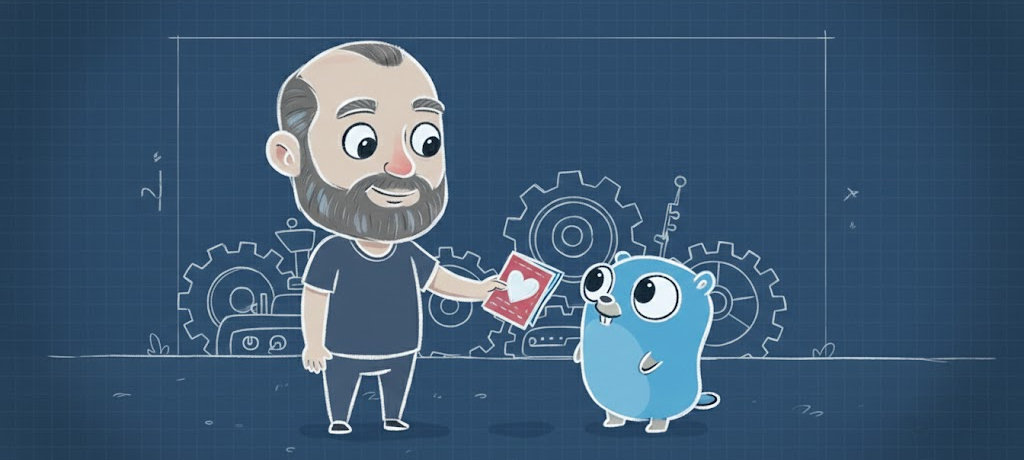
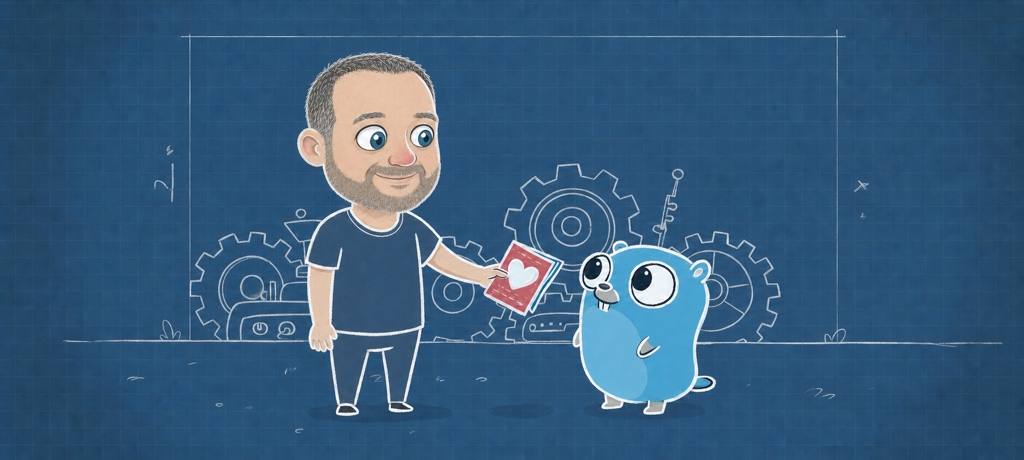
feat(blog): publish creating factories
[WHY] Publish the factory architecture article and refresh post artwork.

[WHAT] Add the factory post and diagram; update intro, Qwen, and junior covers.

[HOW] Use optimized local assets and keep the junior article in draft status.

[TEST] Run pnpm build; verify blog index, RSS, routes, and built assets.

[RISK] Low; this changes blog content and static images only.

[RAG] none

diff --git a/src/content/posts/creating-factories.md b/src/content/posts/creating-factories.md
@@ -1,0 +1,152 @@
+---
+title: "Creating Factories"
+author: "Jon Sykes"
+cover: "/images/posts/creating-factories/cover.jpg"
+thumbnail: "/images/posts/creating-factories/thumb.jpg"
+summary: "Coding agents and business agents are converging on the same architecture. Five capabilities, two worked examples, and the design decisions that come with building one."
+aiUsage: "AI was used for structural editing and reference checking against a brief I wrote. The five-capability model, the opinions, and the architecture described here are my own."
+date: "2026-07-29"
+isDraft: false
+---
+
+## TL;DR
+
+- The software factory is an old organizational idea. Hitachi opened its Software Works in 1969, and Michael Cusumano documented the Japanese factory programs in 1991.
+- The current crop of agent products, on both the coding side and the business side, keep arriving at the same shape without coordinating on it.
+- Five capabilities make a factory: work intake, knowledge retrieval, agent orchestration, isolated execution, and versioning and governance.
+- Two examples carry the article: a token refresh bug through a software factory, and a July board pack through a business factory.
+
+## Software factories have been here before
+
+Software factories are older than most of the people working in software. Hitachi opened its Software Works in 1969. The idea has resurfaced every decade or so since, usually with a new set of tools and the same stubborn question underneath: how do you make software delivery repeatable without pretending software is an assembly line?
+
+Michael Cusumano's _Japan's Software Factories_ is still the best account of what those programs were actually doing. He looked at System Development Corporation in the United States and at Hitachi, Toshiba, NEC and Fujitsu in Japan, and found organizations taking the unglamorous parts of the job seriously: they standardized process, built libraries of reusable components, measured quality properly, and ran training pipelines that could turn a new hire into a productive contributor on a known schedule. Their estimates meant something, which is more than a lot of teams can claim now. Nobody involved thought code came off a conveyor belt. The claim was narrower: that the work around the code could be made predictable.
+
+The history also carries a warning worth holding onto. Those programs got real results on the things they measured: defect rates came down and delivery got more predictable. None of that told a company whether it was building the right product. Process discipline is orthogonal to product judgment, and a factory that reliably ships the wrong thing has an expensive problem that no amount of measurement will surface.
+
+So why is this coming back now? Not because anyone had a better idea about process. The economics changed. Every previous version of the software factory needed people to maintain the component library, run the reviews, apply the standards and keep the pipeline fed. That labor was the cost center, and it's the reason most of these programs eventually collapsed back into ordinary team structure. The worker is now cheap, tireless, available in parallel, and genuinely bad at judgment. That's a different set of trade-offs, and it earns the old idea another look. It does not make it a new idea.
+
+## The idea is visible in products people can use
+
+On the software side, Codex in the ChatGPT desktop app, Claude Code, GitHub Copilot's coding agent, Google Jules, Cursor's background agents and Devin all implement a recognizable version of the same path. They accept a unit of work, prepare an execution environment with the repository in it, change the code, run something that verifies the change, and hand back a branch or a pull request. The interfaces differ a lot, the isolation models differ more, and the products disagree about how much the agent should do before a human sees anything. The path is the same path.
+
+A second group is doing the equivalent work on outputs that aren't code. Claude Cowork, Manus and Replit Agent all produce documents, reports, presentations, applications and research using machinery that looks structurally similar: work comes in, a controlled environment gets prepared, tools run, an artifact comes out. Manus has written publicly about its sandbox design, which is the clearest sign that this group ran into the same isolation problems the coding tools did.
+
+A third group is working on persistence. OpenClaw and Hermes Agent are exploring agents that stay connected to communication channels, hold memory, and stay reachable after the session that created them has ended.
+
+I'm not ranking these, and I'm not claiming any of them is a complete factory. Several are deliberately one layer of the stack and say so. The interesting part is that these teams aren't coordinating and the same boxes keep appearing anyway. In my experience that usually means the boxes are load-bearing. Fashion does not converge like that.
+
+What follows is the 5 capabilities that all of these harnesses have to solve for in one form or another, and two examples that show how they work together. The first example is a software factory that takes a Sentry alert through to a pull request. The second is a business factory that takes a calendar schedule through to an approved board pack.
+
+## The five capabilities
+
+![Two horizontal paths through the same five capabilities. The software factory runs from a Sentry alert to a reviewed pull request. The business factory runs from a calendar schedule to an approved board pack.](/images/posts/creating-factories/factory-paths.webp)
+
+**1. Work Intake.** Work arrives, gets an identity and a priority, and stays owned until it's finished, canceled or deliberately deferred. A Linear issue and a scheduled board pack are the same construct wearing different clothes.
+
+The failure this prevents is work that exists only inside a conversation. No queue means no way to answer what's in flight, what's stuck, what got dropped, or how long anything takes.
+
+For engineers: the queue doesn't have to be a table you own. It can be projected from Linear, the CRM, Slack, email, schedules and workflows, and for most organizations that projection is the right call because the work already lives there and nobody wants a second backlog. What you do own is identity and idempotency. The same Sentry alert firing forty times should enrich one work item, not spawn forty runs.
+
+**2. Knowledge Retrieval.** The factory can find the code, documents, data, policies, history and definitions the job needs.
+
+Skip this and you get confident output built on a stale source, an unauthorized source, or an undefined term. Both examples below turn on it: a fix needs the history of the last incident that looked like this, and a board pack needs to know what "active customer" means this month.
+
+For engineers: retrieval has to carry provenance all the way down to a location in a source, not just a document name, or nobody can audit the claim. And definitions belong in the knowledge layer as first-class content with their own history. A metric definition sitting in a paragraph of a Notion page isn't something a factory can reason about, and you can't diff it when it changes.
+
+**3. Agent Orchestration.** Something schedules the work, delegates it, tracks state, handles retries, enforces policy and records what happened.
+
+Without it, work dies quietly. An agent that crashes in step four of seven, with no record of steps one through three, has cost you more than doing nothing.
+
+For engineers: the distinction that earns its keep is run, step and attempt. A run is one observable execution. A step is one semantic operation inside it. Retrying a step creates another attempt of that step rather than another node in the graph, which keeps the execution history readable when something has been retried five times. Alongside that, one ordered event journal per run so state changes, output and diagnostics share a single timeline. And "waiting" needs to be a real state with a structured reason attached, distinct from "failed", because a run blocked on human approval isn't an error and shouldn't page anyone.
+
+**4. Isolated Execution.** Agents need a controlled place to run code, tools, browsers and data operations without inheriting every credential and permission in the host environment.
+
+The obvious risk is an agent holding your whole keychain. The quieter one is two jobs sharing a filesystem and contaminating each other's results.
+
+For engineers: broker credentials rather than injecting them. The execution environment should hold a handle it can exchange for an operation, not the token itself, so that a prompt injection in a scraped page yields a useless string. Scope the grant to the run, set an egress policy, and remember the sandbox is a tenancy boundary before it is a convenience. This is the capability with the widest gap between products right now, and it's the one I have the most to say about.
+
+**5. Versioning and Governance.** The result has a stable identity, a history, evidence, and a clear point where an accountable person accepts, rejects or revises it.
+
+What goes wrong without it is an artifact nobody signed. The pull request already solves this for code. The board pack, the policy, the forecast and the operating report need the same properties, and mostly don't have them today.
+
+For engineers: approval should be a state transition on the artifact, recorded with an actor and a timestamp, rather than a thumbs-up in a Slack thread that nobody can find in November. Diff matters as much as version. "What changed since the last one" is the question every reviewer actually asks, and it's the only thing that makes reviewing a regenerated 40-page deck tractable.
+
+## Follow the authentication bug
+
+A release goes out. Within an hour, users start getting logged out when their access token refreshes. Sentry lights up with a spike in 401s from the refresh endpoint, and support tickets start arriving that all say roughly the same thing in different words.
+
+Those two signals converge on a single Linear issue. That issue is the thing that matters, and it's worth being precise about why: the issue has an identity, a state, an owner and a priority, and it survives everything that happens next. If the work instead lives in a chat session, then the session is the work, and when the session ends or the context window fills, the work is gone with no record that it existed.
+
+The factory then goes and gets context. Not just the repository, but the recent changes to the authentication path, the runbook for token rotation, the two incidents from last year that looked like this, and the conversation on the issue itself. This is the capability people most often skip, because it feels like it should come free with a good model. It doesn't. Context and model intelligence are different problems. A very capable model with no access to your refresh implementation and no memory of the last time this broke will write you a confident, plausible fix for a different bug.
+
+Work gets scheduled and delegated: investigate, reproduce, implement, review. In a small setup one agent does all four in sequence. In a larger one those are separate steps with their own state, and some of them run in parallel. Either way something has to own the sequencing, notice when the reproduction step fails for the third time, and know the difference between "this failed" and "this is waiting on a human." Work that takes forty minutes and touches four systems fails in ways that work taking forty seconds does not.
+
+The actual execution happens somewhere contained: a workspace with the repository, the build toolchain, the test runner, and only the credentials that this job needs. The obvious reason is that you don't want an agent running arbitrary generated code against your laptop's keychain. The less obvious reason is tenancy. If your factory runs work for more than one team, the boundary between jobs is a boundary you're now responsible for.
+
+Inside that workspace, the agent reproduces the logout, writes a failing test that captures it, fixes the clock-skew check that was rejecting freshly issued tokens, and runs the repository's checks until they pass.
+
+What comes out is a branch and a pull request. This part we've all internalized so thoroughly that it's easy to miss how much it's doing. The pull request has a stable identity, a diff against a known base, a full history of revisions, the CI evidence attached, and a named human who either approves it or does not. Twenty years of engineering practice built a review surface with versioning, evidence and accountability baked in, and it's the reason the software path was the first one to work with agents. The handoff point already existed.
+
+## Follow the board pack
+
+Now the same architecture, pointed at work that has no pull request waiting at the end of it.
+
+It's the last week of July and the board meets in eight days. The pack needs to cover revenue against plan, pipeline coverage and forecast risk, churn and expansion, product adoption, the major customer and support situations, hiring against operating capacity, and the decisions or risks that need discussion in the room.
+
+A calendar schedule opens the work, or the CEO asks for it directly, and it gets a due date and an owner. Same construct as the Linear issue. The pack has an identity before anyone starts on it, so the sections still missing on Thursday register as gaps instead of silence.
+
+Then the factory gathers context, and this is where the business path is harder than the software path. Pipeline and account activity come from the CRM; revenue from Stripe, the ERP or the finance warehouse, depending on how the company grew up; product usage from an analytics tool, support patterns from the ticketing system, and delivery and incident activity from the engineering tracker. I'm naming categories here, not promising integrations, and every company's list is different. On top of that sits the material that lives in no system of record: the operating plan, the metric definitions, the last three board packs, and the leadership notes explaining why Q2 looked the way it did. A repository is one thing with one history. This is nine things that disagree.
+
+Work gets delegated by subject, with the dependencies tracked, because the churn section and the revenue section have to land on the same number. Something has to hold the order, notice that the pipeline analysis is blocked on a warehouse job that hasn't finished, and reconcile two answers when they conflict.
+
+Execution happens in sandboxes: SQL against the warehouse, spreadsheets, chart generation, and browser-driven work for the tools that have no API. Raw credentials stay outside the execution environment wherever possible. The run also needs an explicit answer to whose data it can see, because the compensation detail behind the hiring section is visible to the CEO and not to the analyst who normally assembles the pack. A scheduled run has no user to inherit that from.
+
+Inside those sandboxes the agents pull the current numbers, build the supporting tables, generate the charts, and draft each section against the structure the board already recognizes from last month.
+
+What comes out is a new version of the deck, with the data cited back to its source, the supporting tables attached, and a record of what changed since June. The CEO and CFO read it, send back revisions, and approve the version that gets distributed.
+
+## Building one of these
+
+I didn't arrive at those five capabilities by designing them. They're the list of things that kept breaking, in projects I've built and in the work we've done at Weave Labs, until each one had somewhere proper to live. A few of the decisions were worth the argument they caused.
+
+The first is that the durable thing is a run, not a session. A run is one observable execution with its own steps, and retrying a step creates another attempt of that step rather than a new node in the graph. Everything lands in one ordered event journal, so state changes, output and diagnostics keep a single timeline. That sounds like bookkeeping right up until an agent dies forty minutes into something and you need to know what it had already done. Chat still starts work, and it should. A chat is a conversation container, not a run, and when a message invokes an agent, the reply points back at the run that produced it. The conversation can end without the work ending with it.
+
+The second is that a run carries its own authority, and that authority is granted rather than inherited. A run executes with the credentials and permissions somebody deliberately assigned to it, either the person who started it or the owner of the scheduled workflow it belongs to, and that person stays attached as audit attribution. What I want to avoid is a run quietly picking up everything the initiating user happens to be able to reach, because then the blast radius becomes a property of whoever clicked the button instead of the job.
+
+Granting is the part that has to stay deliberate, and the one I'd fight hardest for. Plenty of agents need deep access to be useful at all, and pretending otherwise just produces agents that fail halfway through the work. So the person building the agent or the workflow decides what it can reach, at the granularity of the task, and that grant is visible and reviewable afterwards. This is the honest answer to the question the board pack raised. The compensation data behind the hiring section is either something that workflow was granted or it isn't, and somebody made that call on the record, instead of it falling out of whose session happened to fire the run.
+
+Credentials themselves stay outside the model's context. A run can be authorized to use a connection without the agent ever seeing the secret behind it: protected values live in a server-owned vault, and what reaches the model is an opaque handle that only resolves inside its own tokenization scope. The agent works with the handle, so a prompt injection in a scraped page gets a useless string.
+
+Knowledge needs its gate in front of retrieval, not behind it. Documents become threads that keep a link back to their source, down to the location in the original, and a thread isn't retrievable until a person approves it. That single rule is what makes citation mean anything: an agent can only search approved knowledge, it cites what it used, and there's never ambiguity between a pending suggestion and accepted company fact.
+
+None of this is unique to us. I keep finding the same concerns in other people's architecture write-ups, usually under different names, and that's most of why I think the model generalizes beyond one team's habits.
+
+## What the next articles cover
+
+Go back to either example and ask what you could actually audit afterwards:
+
+- The original request and who made it.
+- What authority the agent held while it ran.
+- What it executed, in what order, and what failed.
+- Every version of the output and what changed between them.
+- The name of the person who approved the one that shipped.
+
+Answer those five for a piece of real work and you have a factory. Miss them and you have a demo that happened to work once.
+
+The rest of the series takes one capability each: work intake, knowledge retrieval, agent orchestration, isolated execution, and versioning and governance.
+
+## References
+
+- Michael A. Cusumano, _Japan's Software Factories_, Oxford University Press: <https://academic.oup.com/book/52424>
+- Codex in the ChatGPT desktop app: <https://learn.chatgpt.com/docs/app>
+- Claude Code architecture: <https://code.claude.com/docs/en/how-claude-code-works>
+- GitHub Copilot agents: <https://docs.github.com/en/copilot/how-tos/copilot-on-github/use-copilot-agents/overview>
+- Google Jules: <https://jules.google/docs/>
+- Cursor background agents: <https://docs.cursor.com/background-agent>
+- Devin: <https://docs.devin.ai/get-started/devin-intro>
+- Claude Cowork: <https://www.anthropic.com/product/claude-cowork>
+- Manus sandbox: <https://manus.im/blog/manus-sandbox>
+- Replit Agent project editor: <https://docs.replit.com/learn/projects-and-artifacts/project-editor>
+- OpenClaw: <https://github.com/openclaw/openclaw>
+- Hermes Agent: <https://github.com/NousResearch/hermes-agent>

diff --git a/src/content/posts/junior-engineers-ai.md b/src/content/posts/junior-engineers-ai.md
@@ -1,9 +1,9 @@
 ---
 title: "How Junior Engineers Stand Out When Everyone Has AI"
 author: "Jon Sykes"
-cover: "/web-app-manifest-512x512.png"
-thumbnail: "/web-app-manifest-512x512.png"
-summary: "A roadmap for new grads and junior engineers on what to learn when AI to make you standout in the crowd."
+cover: "/images/posts/junior-engineers-ai/cover.jpg"
+thumbnail: "/images/posts/junior-engineers-ai/thumb.jpg"
+summary: "A roadmap for new grads and junior engineers: what to learn so you stand out when everyone has AI."
 aiUsage: "AI was used to help structure and edit this article. All opinions, anecdotes, and advice are based on my experience hiring and leading architecture-heavy engineering teams."
 date: "2026-03-12"
 isDraft: true
@@ -86,9 +86,7 @@ If your entire AI workflow is "build this feature," you are using the tool at th
 
 I notice this immediately. The people I remember are rarely the ones who sound the flashiest in technical conversation. They are the ones who make me think, "Okay, this person understands how work gets shipped safely."
 
-If you want to sharpen this part of your game, ask a few simple questions on every task. How will I know this works? What could this break? How would I roll this out safely? What would I want to monitor after release?
-
-That mindset will separate you from a lot of people very quickly.
+Four questions on every task will get you most of the way. How will I know this works? What could this break? How would I roll this out safely? What would I want to monitor after release? Ask those consistently and you will be doing something most people at your level skip.
 
 ## Communication and judgment
 
@@ -106,7 +104,7 @@ AI is useful here if you use it the right way. It can help you compare options, 
 
 I want the second one. Every time.
 
-If you want to build this skill, write more. Explain your decisions in PRs. Summarize trade-offs. When you ask for help, ask narrower questions. When you disagree, explain why. When you're unsure, say so clearly. That isn't weakness. It's a sign that people can trust your thinking.
+Writing is how you build it. Explain your decisions in PRs and summarize trade-offs. When you ask for help, ask narrower questions. When you disagree, explain why. When you're unsure, say so clearly. That isn't weakness. It's a sign that people can trust your thinking.
 
 ## What I would focus on if I were starting now
 

diff --git a/docs/DEVELOPMENT_STATUS.md b/docs/DEVELOPMENT_STATUS.md
@@ -1,5 +1,21 @@
 # Development Status
 
+## 2026-07-29
+
+- Refreshed the intro and Qwen 3 Coder Next cover illustrations so Jon's
+  caricature matches his current appearance while retaining the established
+  blueprint artwork style.
+- Added an optimized, versioned Qwen cover and updated the post frontmatter to
+  use it; the existing square thumbnail remains unchanged.
+- Added blueprint-style cover and thumbnail artwork for both current draft
+  posts and replaced their temporary manifest-icon placeholders.
+- Simplified the junior-engineer cover by removing the robot and background
+  clutter, giving the student a book, and cleaning up the table diagram.
+- Refined the Creating Factories cover with a forward-looking Jon, a central
+  robot-status screen, and a cleaner floor without the gopher or grass marks.
+- Published "Creating Factories" with its supporting factory-path diagram,
+  production cover, and square thumbnail.
+
 ## 2026-03-12
 
 - Added a new blog post design doc and implementation plan under `docs/plans/` for "How Junior Engineers Stand Out When Everyone Has AI", covering the hiring-manager angle, roadmap structure, section goals, and validation plan.

diff --git a/src/content/posts/qwen3-coder-next-lms.md b/src/content/posts/qwen3-coder-next-lms.md
@@ -1,6 +1,6 @@
 ---
 title: "Does Qwen 3 Coder Next Make Local Development Viable?"
-cover: "/images/posts/qwen3-coder-next-lms/cover.png"
+cover: "/images/posts/qwen3-coder-next-lms/cover-v2.jpg"
 thumbnail: "/images/posts/qwen3-coder-next-lms/thumb.png"
 summary: "A local-first build of a LM Studio Log Auditor, built end-to-end with Qwen 3 Coder Next + Opencode CLI for local model evaluations."
 aiUsage: "AI was used for editing and metric aggregation; All writing is my own and benchmark data and conclusions are based on local log analysis."
